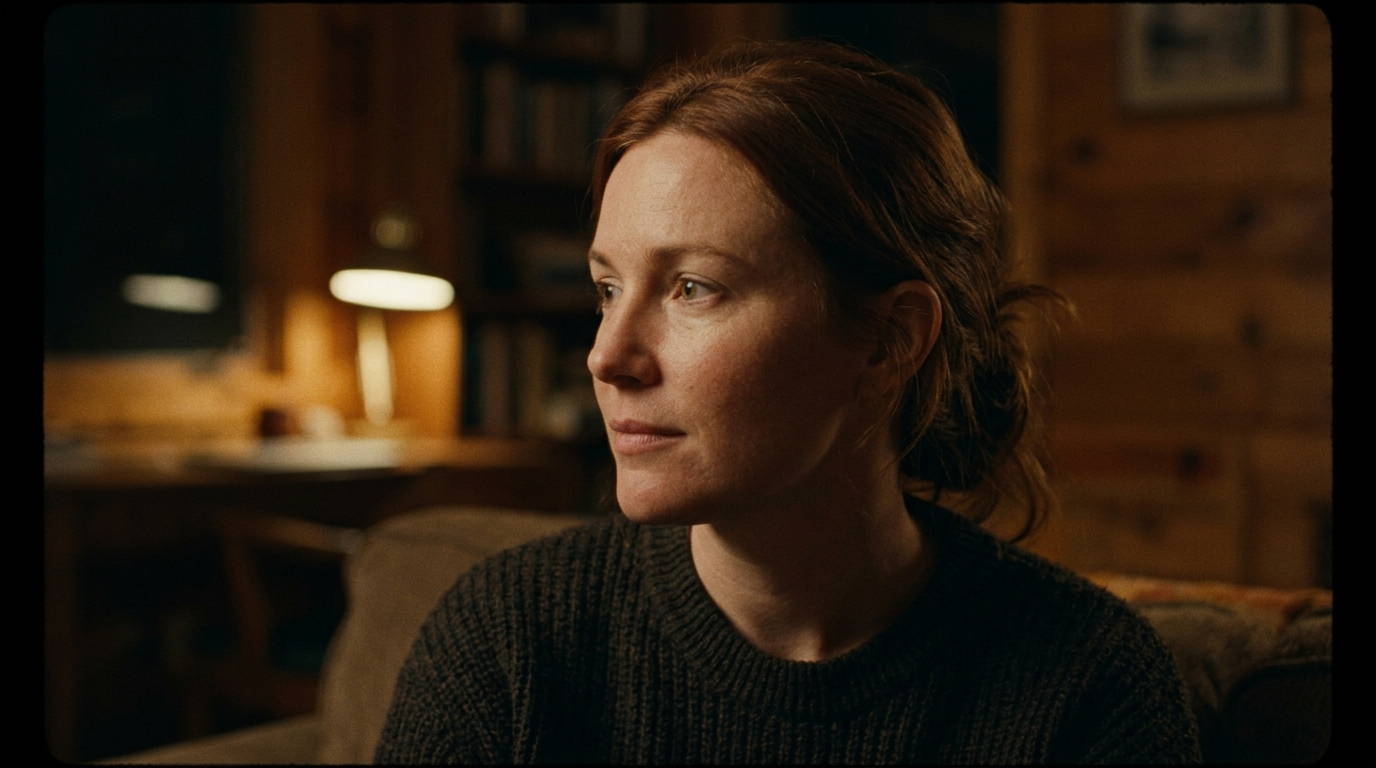
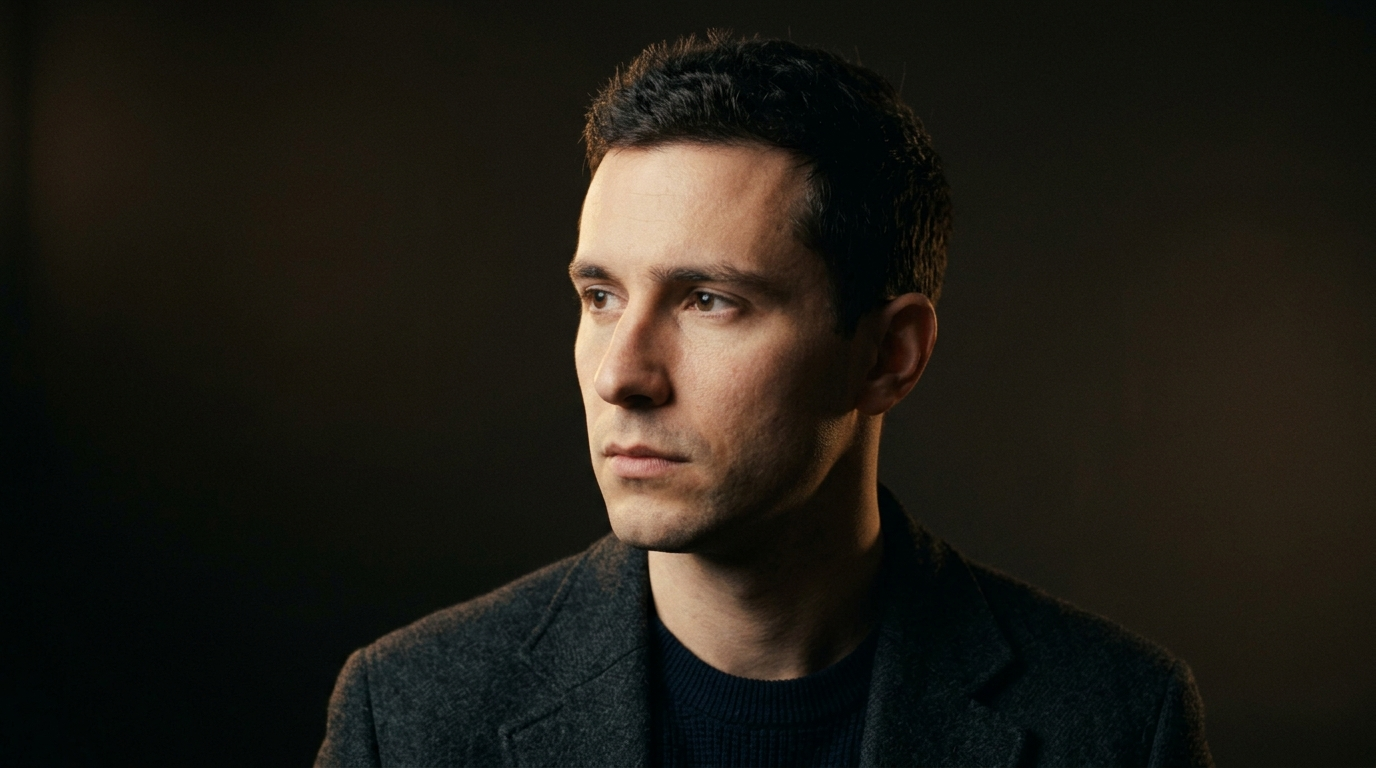
fix(lighting): align broad lighting cinema still with bright broad cheek and shaded far cheek

diff --git a/sw.js b/sw.js
@@ -1,5 +1,5 @@
 // Généré par outils/generer-sw.mjs — ne pas modifier à la main
-const VERSION = 'jco-e87c187909';
+const VERSION = 'jco-3094765d48';
 const PRECACHE = ["./",
   "./css/app.css",
   "./fonts/fraunces-latin-opsz-normal.woff2",
